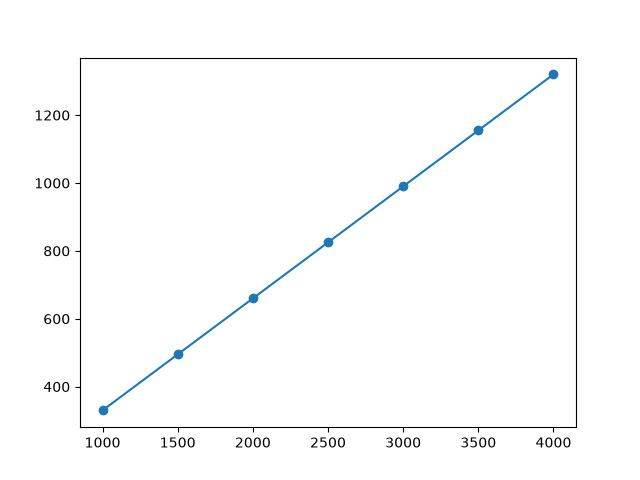
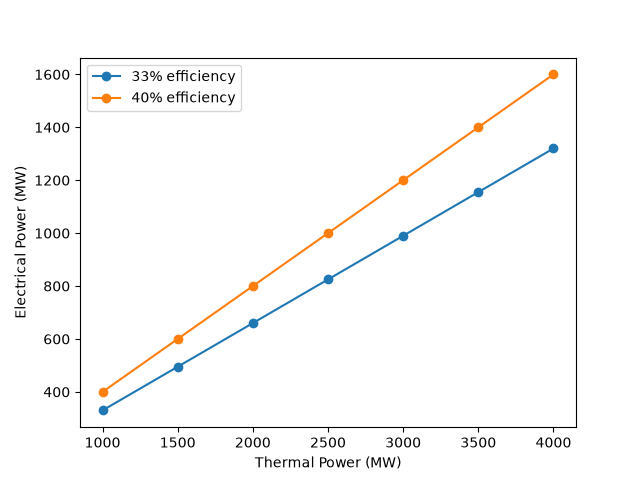
compare reactor outputs at diff efficiencies

diff --git a/reactor_sweep.py b/reactor_sweep.py
@@ -1,11 +1,17 @@
 import numpy as np
 import matplotlib.pyplot as plt
+def electrical_output(thermal_power, efficiency):
+	return thermal_power * efficiency
 thermal_power = np.linspace(1000, 4000, 7)
 efficiency = 0.33
-electrical_power = thermal_power * efficiency
-
+electrical_power = electrical_output(thermal_power, efficiency)
+electrical_power_40 = electrical_output(thermal_power, 0.40)
 print(electrical_power)
-plt.xlabel("Thermal Power (MW)")
+print(electrical_output(3000, 0.4))
 
+plt.plot(thermal_power, electrical_power, marker="o", label="33% efficiency")
+plt.plot(thermal_power, electrical_power_40, marker="o", label="40% efficiency")
+plt.xlabel("Thermal Power (MW)")
 plt.ylabel("Electrical Power (MW)")
-plt.plot(thermal_power, electrical_power, marker="o")
+plt.legend()
+plt.savefig("reactor_power.png")
